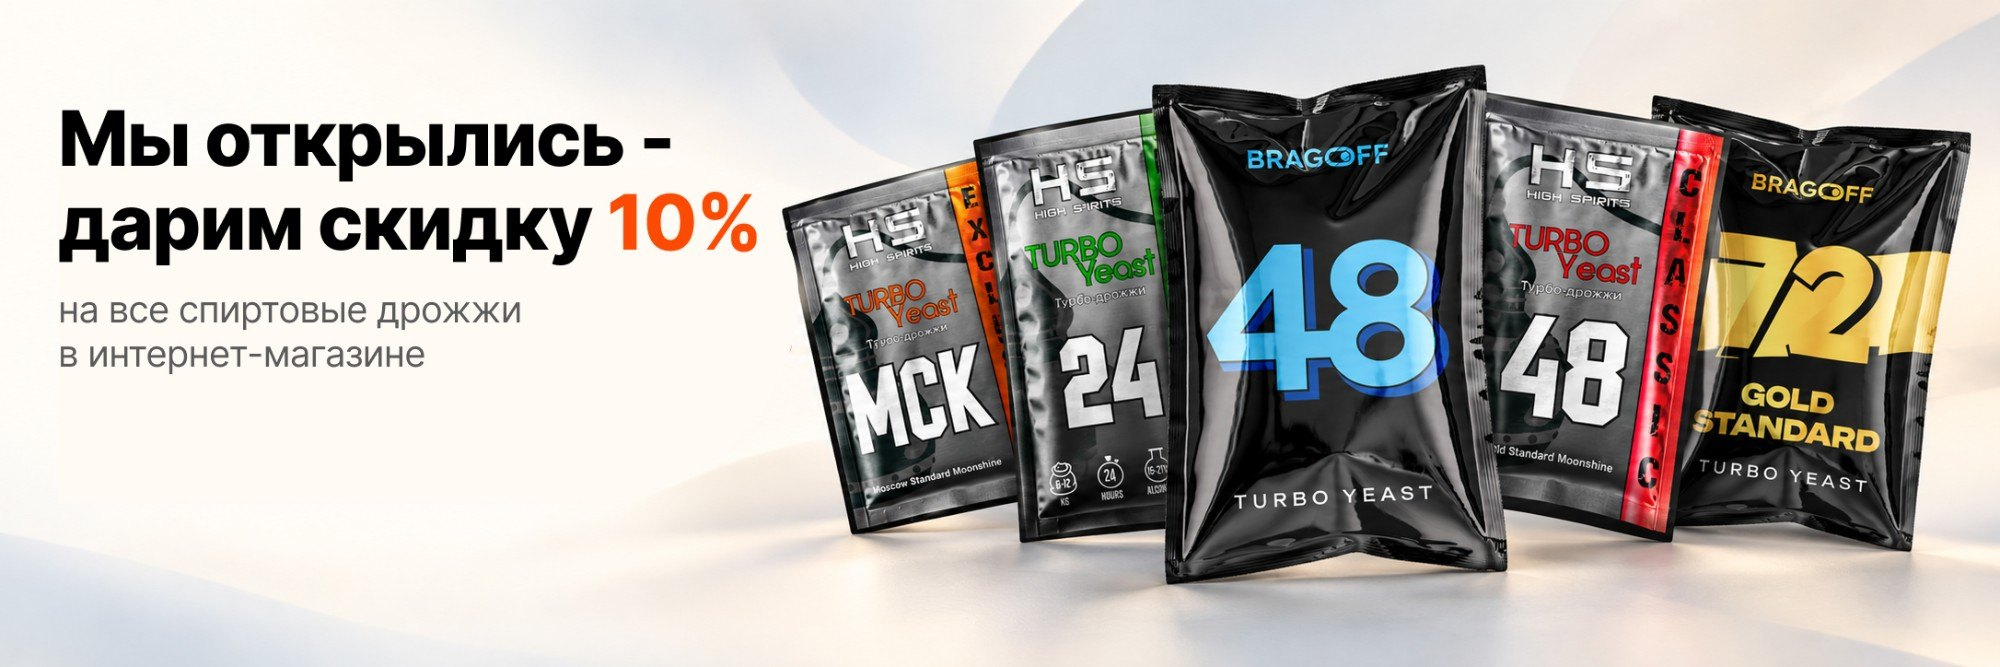
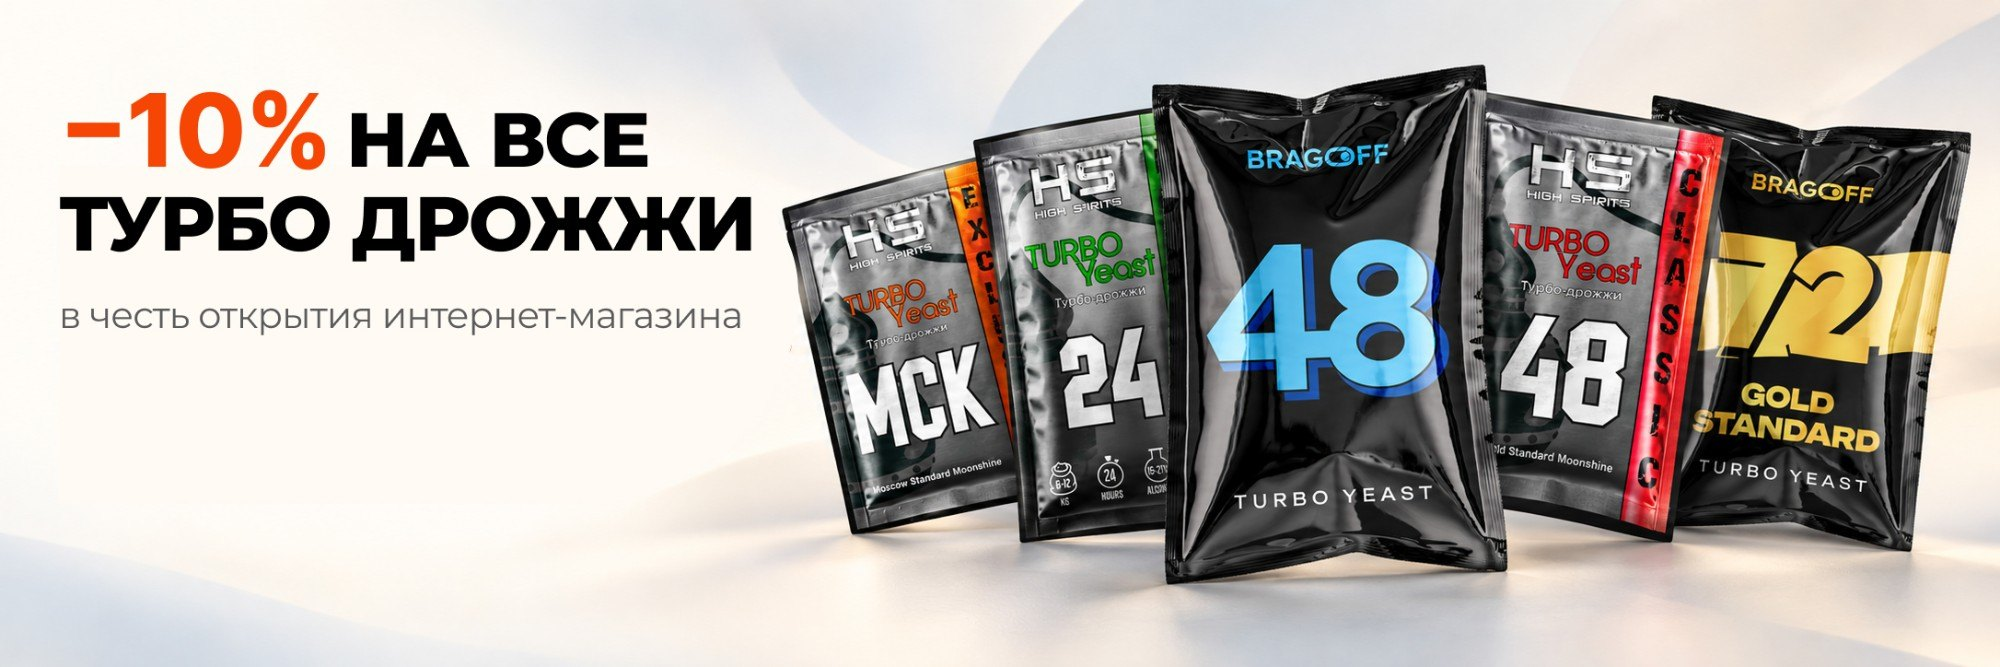
Заменить главный баннер: «−10% на все турбо дрожжи»

Changed region(s): [[0.031, 0.1199, 0.403, 0.3898], [0.031, 0.4498, 0.372, 0.5697]]

diff --git a/index.php b/index.php
@@ -32,8 +32,8 @@ if ( ! empty( $popular_fixed ) ) {
 		<div class="banners__grid">
 
 			<div class="banner banner--promo">
-				<a class="banner__link" href="<?php echo esc_url( home_url( '/product-category/drozhzhi/' ) ); ?>" aria-label="<?php esc_attr_e( 'Скидка 10% на все спиртовые дрожжи', 'besedka' ); ?>">
-					<img class="banner__image" src="<?php echo esc_url( get_template_directory_uri() . '/img/banners/opening.jpg' ); ?>" alt="<?php esc_attr_e( 'Мы открылись — дарим скидку 10% на все спиртовые дрожжи в интернет-магазине', 'besedka' ); ?>" width="2000" height="667">
+				<a class="banner__link" href="<?php echo esc_url( home_url( '/product-category/drozhzhi/' ) ); ?>" aria-label="<?php esc_attr_e( 'Скидка 10% на все турбо-дрожжи', 'besedka' ); ?>">
+					<img class="banner__image" src="<?php echo esc_url( get_template_directory_uri() . '/img/banners/opening.jpg' ); ?>" alt="<?php esc_attr_e( '−10% на все турбо-дрожжи в честь открытия интернет-магазина', 'besedka' ); ?>" width="2000" height="667">
 				</a>
 				<div class="banner__timer countdown" data-countdown="<?php echo esc_attr( besedka_get_promo_end() ); ?>">
 					<div class="countdown__row">
